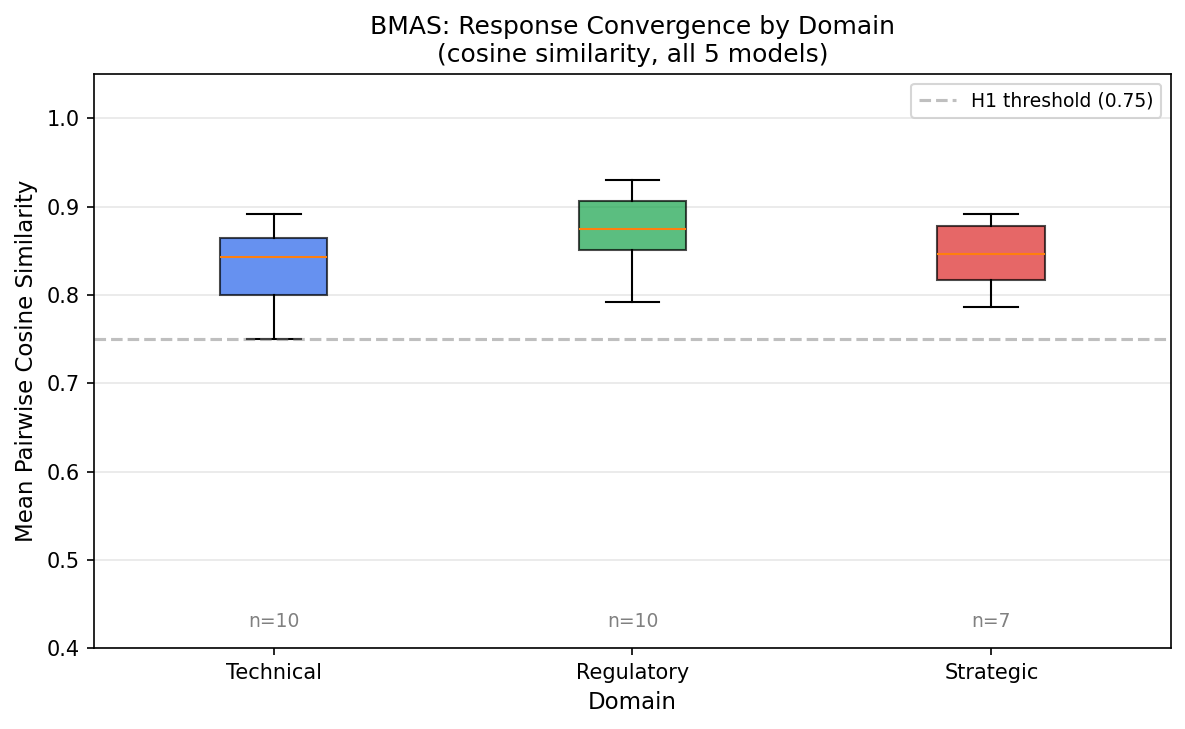
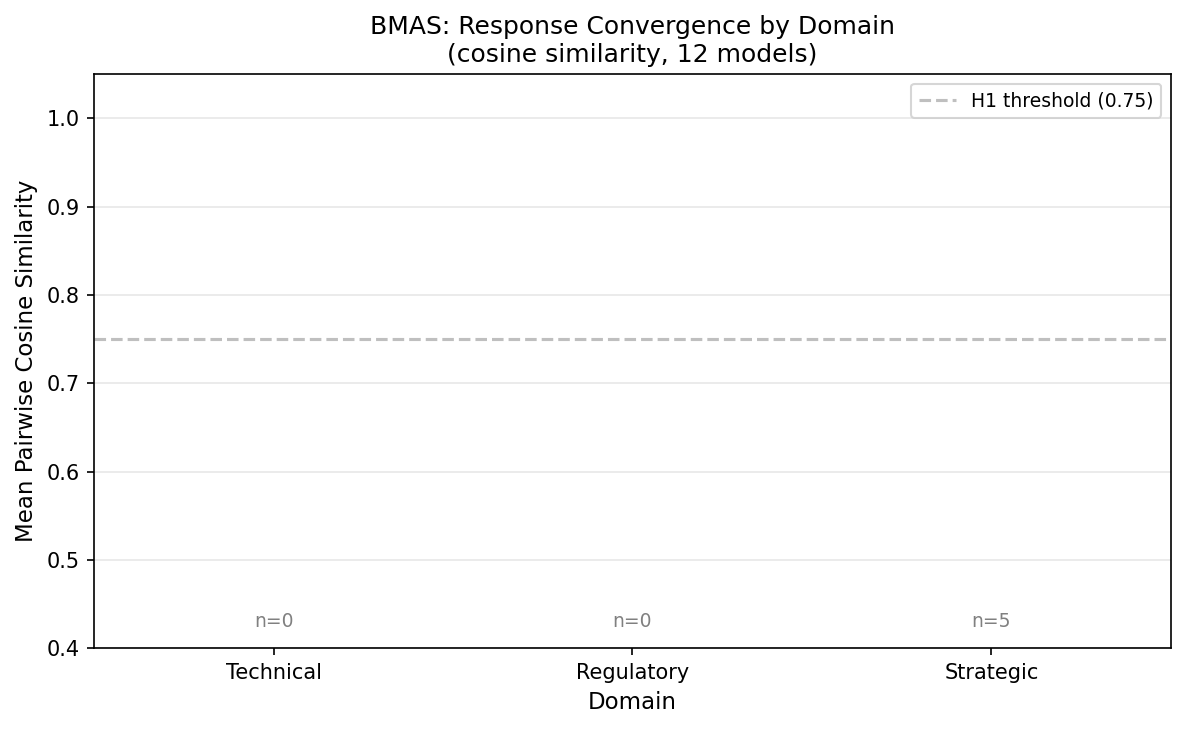
data(bmas): v2 complete — 12 models x 45 prompts, GPU-accelerated BERTScore via RTX 2080 Ti, updated metrics + figures F1-F5

diff --git a/src/metrics/deviation.py b/src/metrics/deviation.py
@@ -44,6 +44,7 @@ def compute_cosine_matrix(responses: dict[str, str], model_name: str = "all-mpne
     model_ids = sorted(responses.keys())
     texts = [responses[mid] for mid in model_ids]
 
+    # Force CPU for embeddings — local GPU (Quadro M2000, 4GB) runs OOM with roberta
     model = SentenceTransformer(model_name, device="cpu")
     embeddings = model.encode(texts, normalize_embeddings=True)
 
@@ -88,14 +89,38 @@ def compute_bertscore(responses: dict[str, str], lang: str = "en") -> dict[str, 
     texts = [responses[mid] for mid in model_ids]
     n = len(texts)
 
+    # Build all pairs upfront for batched GPU call
+    pair_indices = [(i, j) for i in range(n) for j in range(i + 1, n)]
+    all_cands = [texts[i] for i, j in pair_indices]
+    all_refs  = [texts[j] for i, j in pair_indices]
+
+    # Use GPU Bridge HTTP API if available, else fall back to local bert_score
+    import os, urllib.request, json as _json
+    gpu_bridge_url = os.environ.get("GPU_BRIDGE_URL", "http://localhost:8765")
+    f1_scores: list[float] = []
+
+    try:
+        payload = _json.dumps({"candidates": all_cands, "references": all_refs}).encode()
+        req = urllib.request.Request(
+            f"{gpu_bridge_url}/bertscore",
+            data=payload,
+            headers={"Content-Type": "application/json"},
+        )
+        with urllib.request.urlopen(req, timeout=120) as r:
+            result = _json.loads(r.read())
+        f1_scores = result["f1"]
+    except Exception as _e:
+        # Fallback to local CPU
+        import warnings
+        warnings.warn(f"GPU Bridge unavailable ({_e}), falling back to CPU bert_score")
+        for cand, ref in zip(all_cands, all_refs):
+            _, _, f1 = bert_score([cand], [ref], lang=lang, verbose=False, device="cpu")
+            f1_scores.append(float(f1[0].item()))
+
     pairs = []
-    for i in range(n):
-        for j in range(i + 1, n):
-            cands = [texts[i]]
-            refs = [texts[j]]
-            _, _, f1 = bert_score(cands, refs, lang=lang, verbose=False, device="cpu")
-            score = float(f1[0].item())
-            pairs.append({
+    for idx, (i, j) in enumerate(pair_indices):
+        score = f1_scores[idx]
+        pairs.append({
                 "model_a": model_ids[i],
                 "model_b": model_ids[j],
                 "bertscore_f1": score,
